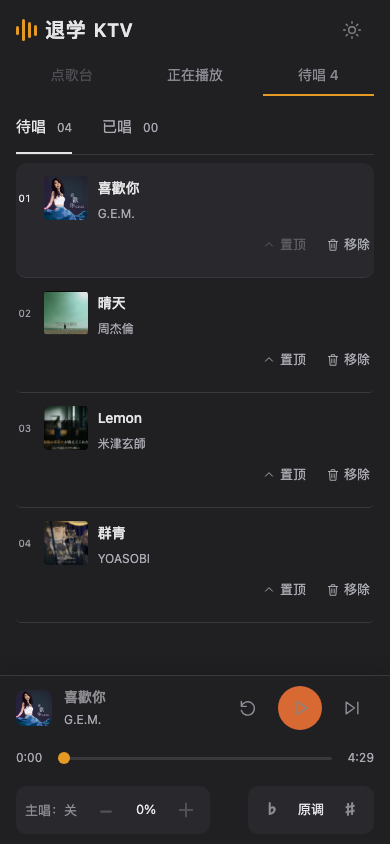
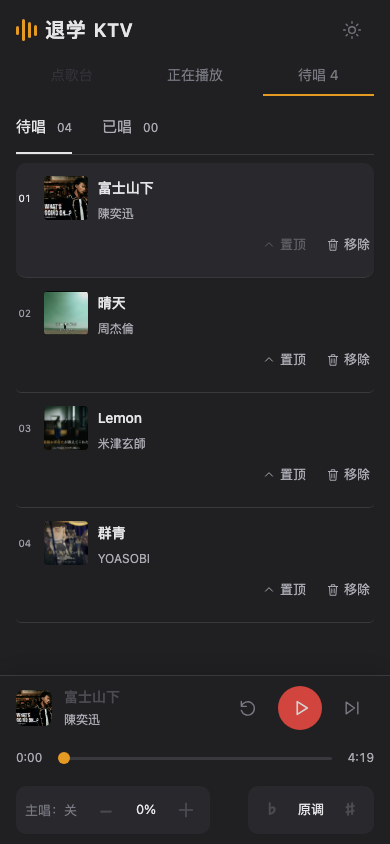
Document source licensing and refresh Cantonese screenshots

diff --git a/THIRD_PARTY.md b/THIRD_PARTY.md
@@ -1,6 +1,6 @@
 # 第三方来源与许可
 
-项目自身许可证尚未选定。以下是第三方组件的来源和已核对的许可，不能把它们统一解释为本项目的授权。模型、媒体和歌词各有独立的使用与分发条件。
+项目自行编写的代码与文档采用 [MIT License](LICENSE)。下列第三方代码、配置、数据与另行安装的组件保留其原有许可，不因出现在本项目中而改为 MIT。模型、媒体和歌词各有独立的使用与分发条件。
 
 ## 随仓库分发的代码和配置
 
@@ -11,17 +11,49 @@
 | `karaoke/models/pretrained/vocals_mel_band_roformer*.yaml` | [KimberleyJSN / Mel-Band RoFormer](https://huggingface.co/KimberleyJSN/melbandroformer) | 上游模型卡声明 MIT。保留上游配置及本项目的推理配置；权重哈希见 [separation.json](karaoke/dependencies/separation.json)。 |
 | `karaoke/models/pretrained/karaoke_bs_roformer_anvuew.yaml` | [Anvuew 的固定版本](https://huggingface.co/anvuew/karaoke_bs_roformer/tree/0d4423d42e12cf2ba39ae09171028507b8a2a7be) | 该版本模型卡声明 `gpl-3.0`，保留 [GPL v3 全文](licenses/GPL-3.0.txt)。此声明不能被项目自身的许可证覆盖。 |
 
-## 另行安装的源码与模型
+## 另行安装的 Python 组件与数据
+
+下表补充需要特别区分许可范围的直接依赖；它们由 `requirements*.txt` 安装，包本身不随源码仓库分发。声明依赖不等于已经分发该包，但直接导入及组合发布时仍须遵守适用条款。
+
+| 组件 | 固定版本、用途与许可 |
+| --- | --- |
+| [cmudict](https://pypi.org/project/cmudict/1.1.3/) | **1.1.3，GPL-3.0-or-later**；`gaussian_align.py` 中的研究工具直接导入。包内 CMU 发音字典有单独的 BSD 类许可，不能用字典的数据许可替代 Python 包的许可。 |
+| [phonemizer](https://github.com/bootphon/phonemizer/tree/v3.3.0) | **3.3.0，GPL-3.0-or-later**；英文歌声音素对齐使用其 eSpeak 接口。[上游许可](https://github.com/bootphon/phonemizer/blob/v3.3.0/LICENSE)。 |
+| [pykakasi](https://pypi.org/project/pykakasi/2.3.0/) | **2.3.0，GPL-3.0-or-later**；日文发音处理直接导入。 |
+| [espeakng-loader](https://pypi.org/project/espeakng-loader/0.2.4/) / [eSpeak NG](https://github.com/espeak-ng/espeak-ng) | **loader 0.2.4**；loader 当前上游声明 MIT，所加载的 eSpeak NG 为 GPLv3 系列许可。该版本本机 wheel 含原生库及数据，但缺少可核验的随包许可/源码版本说明；打包前须补齐实际二进制来源、对应源码与通知，不能将整个 wheel 标为 MIT。 |
+| [uroman](https://pypi.org/project/uroman/1.3.1.1/) | **1.3.1.1，MIT 类许可附额外项目署名要求**；用于多语言声学复核的转写。该版本包分类写 Apache，但实际附带许可如下，不依据分类替换条款。 |
+| [PyCantonese](https://github.com/jacksonllee/pycantonese) | **5.0.0，Python 代码 MIT**；粤拼函数使用 HKCanCor 与 rime-cantonese 数据，二者为 CC-BY-4.0。包内另有 CantoMap（GPLv3）、Common Voice（MPL-2.0）、CTCPC（CC0）数据；制作整包时须保留各数据子目录的许可，不能只保留代码的 MIT。 |
+| [pyopenjtalk](https://github.com/r9y9/pyopenjtalk) | **0.4.1，Python 封装 MIT**；本项目使用文本前端。包内 Mei voice 另按 CC-BY-3.0，不能将声音资源重新许可为 MIT。 |
+
+GPL 允许商业使用；它要求按适用条件提供受覆盖作品的源码、通知和许可。分发直接导入 GPL 库的程序组合时，应按 GPL 兼容方式处理，不能只附本项目的 MIT 就宣称覆盖所有组件。独立作品的集合也不会仅因放在同一目录而全部变为 GPL。参见 [GNU FAQ](https://www.gnu.org/licenses/gpl-faq.en.html#IfInterpreterIsGPL) 和 [GPL v3 全文](licenses/GPL-3.0.txt)。
+
+### uroman 署名
+
+This project uses the universal romanizer software 'uroman' written by Ulf Hermjakob, USC Information Sciences Institute (2015-2020).
+
+Ulf Hermjakob, Jonathan May, and Kevin Knight. 2018. *Out-of-the-box universal romanization tool uroman*. Proceedings of the 56th Annual Meeting of the Association for Computational Linguistics, Demo Track.
+
+固定版本随包的[完整许可](licenses/uroman-LICENSE.txt)保留其原始版权年份与附加署名条款；本项目的 MIT 不移除这些要求。
+
+### 粤拼数据署名
+
+- **HKCanCor**：K. K. Luke and May L. Y. Wong (2015). *The Hong Kong Cantonese Corpus: Design and Uses*. Journal of Chinese Linguistics Monograph Series, 25, 312–333。[数据来源](https://github.com/fcbond/hkcancor)，经 PyCantonese 使用，许可为 [CC-BY-4.0](https://creativecommons.org/licenses/by/4.0/)。PyCantonese 调整了上游数据格式，本项目未再修改随包数据。
+- **rime-cantonese**：rime-cantonese contributors 的[粤语拼音词库](https://github.com/rime/rime-cantonese/tree/33f7d81bc7ef5eb2f69538a2d3d5fc109529e2dd)与 [CanCLID 上游数据](https://github.com/CanCLID/rime-cantonese-upstream/tree/bea0d7a366627506eb214d82b80780b5db4b05a1)，经 PyCantonese 转为运行时词典，许可为 [CC-BY-4.0](https://creativecommons.org/licenses/by/4.0/)。项目查询词典生成读音注释，不修改随包词典；文档示例说明见 [截图素材](docs/images/README.md)。
+
+## 另行安装的对齐源码与模型
 
 - **audio-separator 0.44.5**：调用入口的[上游许可为 MIT](https://github.com/nomadkaraoke/python-audio-separator/blob/v0.44.5/LICENSE)；它使用的每个模型仍需单独核对。
 - **SOFA**：固定源码版本的[许可为 MIT](https://github.com/qiuqiao/SOFA/blob/9549c6a86d16019c817eefe4bb8183405da524cc/LICENSE)。这不自动覆盖来自其他作者的日文／英文模型、字典或训练数据。
 - **LyricsAlignment-Multilingual**：固定源码版本的[许可为 MIT](https://github.com/jhuang448/LyricsAlignment-Multilingual/blob/ca1a3923d6c8bf7d20eefa1080f3f104a6173d38/LICENSE)。来源与校验值见 [english-alignment.json](karaoke/dependencies/english-alignment.json)。
 - **MMS_FA**：可选的声学复核模型；[PyTorch 官方文档](https://docs.pytorch.org/audio/stable/generated/torchaudio.pipelines.MMS_FA.html)明确声明 **CC-BY-NC 4.0（非商业）**。它不是通用的商业使用授权；如需商业部署，应另行取得适用授权或替换该模型。
-- 其他 SOFA 权重、SenseVoice、Whisper、Qwen 等按 [SETUP](SETUP.md) 从原发布者取得；[依赖清单](karaoke/dependencies)记录版本和哈希。哈希只核对文件身份，不证明使用或再分发权限。
+- **SOFA Japanese `akm_ja_v001`**：[发布页](https://github.com/ariikamusic/SOFA_Models/releases/tag/akm_ja_v001)及所附 readme 未提供明确的权重许可。使用/分发权限需向该权重发布者确认，不能由 SOFA 主项目的 MIT 推定；其他作者的 SOFA 权重、字典和 G2P 资源也分别核实。
+- **SenseVoice Small**：官方源码为 MIT，官方权重适用独立的模型协议。[官方说明](https://github.com/QwenAudio/SenseVoice#license)澄清遵守协议时允许商业使用，仍需署名并保留模型名称。本项目使用的是 sherpa-onnx 发布的 int8 转换包，应保留并核对该包的实际许可；不能用 sherpa-onnx 的 Apache 许可替代模型条款。
+- **Qwen3 ForcedAligner 0.6B**：[固定版本模型卡](https://huggingface.co/Qwen/Qwen3-ForcedAligner-0.6B/blob/c7cbfc2048c462b0d63a45797104fc9db3ad62b7/README.md)声明 Apache-2.0；相关文件身份见依赖清单。
+- Whisper 等其余资源按 [SETUP](SETUP.md) 从原发布者取得；[依赖清单](karaoke/dependencies)记录版本和哈希。哈希只核对文件身份，不证明使用或再分发权限。
 - 早期对照模型的来源可能没有完整许可声明，因此不随仓库提供其权重或配置，也不作为默认安装依赖。
 
 Python 包由各 `requirements*.txt` 固定版本，Node.js、FFmpeg、LAME 和系统字体由部署者安装。这里没有对全部间接依赖或组合分发作兼容性结论；制作包含依赖／模型的容器、安装包或公开演示服务前，应核对所含组件的实际许可。
 
 ## 音乐和在线来源
 
-本仓库不授予任何歌曲、MV、封面或歌词的版权许可。请使用有权处理和展示的素材，并遵守实际来源的访问条件。不要将私人 cookies、API key、下载媒体、歌词库或第三方研究 checkout 加入源码发布包。
+软件许可不授予第三方歌曲、MV、封面或歌词的版权许可。README 截图包含第三方作品的画面和歌词节选，未取得另行书面授权，不属于项目的 MIT 授权内容；展示范围及出处见 [截图素材说明](docs/images/README.md)。说明来源不等于获得授权，也不保证适用合理使用。请使用有权处理和展示的素材，并遵守实际来源的访问条件；能从网页或接口取得内容不代表获得再分发权，[YouTube 条款](https://www.youtube.com/static?template=terms)也单独约束访问和下载。不要将私人 cookies、API key、下载媒体、歌词库或第三方研究 checkout 加入源码发布包。

diff --git a/README.md b/README.md
@@ -1,16 +1,16 @@
 # 退学 KTV · Karaoke
 
-把 YouTube 视频变成可以唱的卡拉 OK：网页点歌、后台预处理、共享歌单和自动播放下一首。
+把有权下载和处理的 YouTube 视频变成可以唱的卡拉 OK：网页点歌、后台预处理、共享歌单和自动播放下一首。
 
 ## 界面预览
 
-以下为当前界面的实际截图，使用本地示例曲库和待唱队列；搜索结果来自 YouTube Music。歌曲与媒体文件不随仓库提供。
+以下为当前界面的实际截图，展示示例曲库、搜索和字幕播放。图中歌曲、封面、视频画面及歌词属于第三方，不包含在本项目的 MIT 授权中；素材出处与授权状态见[截图说明](docs/images/README.md)。截图用于说明功能，不代表逐字起音准确率已经通过人工验收。
 
 ### 全屏播放与字幕
 
-琥珀色逐字／词点亮，下一句提前显示；底部保留播放进度、主唱音量和升降调。
+琥珀色逐字／词点亮，下一句提前显示。**粤语歌词带粤语拼音（粤拼），日文歌词的汉字带平假名注音**，读音显示在对应文字上方；底部保留播放进度、主唱音量和升降调。
 
-![全屏播放：当前歌词的琥珀色点亮、下一句预读与底部控制栏](docs/images/playback.png)
+![全屏播放：粤拼注音、琥珀色点亮、下一句预读与底部控制栏](docs/images/playback.png)
 
 ### 桌面点歌台
 
@@ -22,13 +22,13 @@
 
 搜索歌名，分别展示曲库里的歌与在线结果，保留不同歌手和版本。
 
-![综合搜索：Lemon 的本地匹配项与 YouTube Music 在线结果](docs/images/search-general.png)
+![综合搜索：Lemon 的曲库匹配项与在线搜索结果](docs/images/search-general.png)
 
 ### 歌手搜索
 
 搜索歌手后直接展开作品列表，可切换其他候选并逐首点歌。
 
-![歌手搜索：周杰倫的歌手信息、曲库匹配项与作品列表](docs/images/search-artist.png)
+![歌手搜索：陈奕迅的信息、曲库匹配项与作品列表](docs/images/search-artist.png)
 
 ### 正在播放
 
@@ -47,6 +47,7 @@
 - 按歌名查 YouTube Music 歌曲，或找歌手浏览热门歌曲；下拉自动加载更多，支持播放量排序、预览和直接点歌，也保留原始 YouTube 视频搜索和视频链接。后台准备与播放顺序分别维护。
 - 自动下载视频，分离背景音乐、伴唱、主唱，生成带字幕的 MV。
 - 多语言歌词对齐（中日英保留专用唱歌模型细化）；当前句＋下一句，琥珀色逐字／词点亮，硬切换句，片头歌曲信息和四秒开唱提示。
+- **粤语拼音与日文平假名**：粤语歌词显示粤拼，日文歌词的汉字显示平假名注音，在生成字幕时完成。
 - 暂停、定位、重唱、下一首、全屏；混音后实时升降调，主唱音量按百分比调节。
 - 伴奏和伴唱始终开启，主唱 0–100% 加减按钮支持全屏调整，每次 5 个百分点；各设备独立播放；默认 10 GiB 歌曲缓存上限与 LRU 自动回收。
 - SQLite 持久化，SSE 推送进度；同一局域网可以用手机点歌和播放。
@@ -95,11 +96,13 @@ karaoke/
   models/pretrained/*.yaml        分离模型配置（不含权重）
 ```
 
-详细入口见[源码导航](karaoke/README.md)。本仓库保存代码、测试、配置和说明，不包含歌曲、歌词库、音轨、MV、封面、任务数据库、实验产物、模型权重、大型第三方研究仓库或虚拟环境。研究工具需要自行准备相应数据。
+详细入口见[源码导航](karaoke/README.md)。仓库保存代码、测试、配置、文档与上述界面截图；运行所需的歌曲、歌词库、音轨、MV、任务数据库、实验产物、模型权重、大型第三方研究仓库和虚拟环境由使用者另行准备。
 
 ## 许可与部署边界
 
-项目自身许可证尚未选定。第三方代码、模型配置与权重的许可分别记录在 [THIRD_PARTY.md](THIRD_PARTY.md)；其中包含 GPL 配置和非商业模型，不能把整套运行环境视为统一的宽松许可。
+项目自行编写的代码与文档采用 [MIT License](LICENSE)。截图内的第三方素材，以及第三方代码、配置、数据和模型，保留各自权利与许可，见 [THIRD_PARTY.md](THIRD_PARTY.md)。其中包含 GPL 组件和可选的非商业模型；MIT 不替代这些条款，也不代表完整运行环境可以仅按 MIT 分发。
+
+软件许可不授予歌曲、录音、视频、封面或歌词的使用权。下载、处理及分享前，请确认相应内容权限并遵守来源平台条款；开源或非商业使用不自动免除这些要求。
 
 服务默认只监听本机，没有内置账号隔离。远程访问需由部署者保护整个站点及 API；媒体、SSE 和操作接口都在保护范围内。歌曲、歌词和个人凭据不应加入源码发布包。
 

diff --git a/docs/images/README.md b/docs/images/README.md
@@ -1,0 +1,28 @@
+# 界面截图与素材说明
+
+本目录保存当前应用的六张界面截图，用于说明点歌、搜索、待唱列表和字幕播放。截图在隔离的本地演示环境拍摄，曲库与队列为展示而选取，不是随仓库分发的歌曲库。
+
+## 字幕功能
+
+**粤语歌词带粤语拼音（粤拼），日文歌词的汉字带平假名注音**，显示在对应文字上方。读音在字幕视频准备阶段生成。全屏与正在播放截图展示陈奕迅《富士山下》的粤拼、当前句高亮和下一句预读；截图不构成逐字起音准确率的人工验收。
+
+## 素材来源
+
+| 展示内容 | 原始来源 |
+| --- | --- |
+| 陈奕迅《富士山下》画面、歌曲信息及歌词节选 | [Eason Chan / Universal Music Group 官方曲目](https://www.youtube.com/watch?v=7qeShSmmsNg)，[歌词来源 LINE MUSIC](https://music-tw.line.me/track/1051750005)，专辑 *What's Going On...?*。来源标注录音为 ℗ 2006 Cinepoly Records Co. Ltd.，作曲：泽日生；作词：林夕。该录音标注不代表包含封面或歌词的全部权利。 |
+| 米津玄师《Lemon》封面及歌曲信息 | [原视频](https://www.youtube.com/watch?v=SX_ViT4Ra7k) |
+| 周杰伦《晴天》封面及歌曲信息 | [原视频](https://www.youtube.com/watch?v=DYptgVvkVLQ) |
+| YOASOBI《群青》封面及歌曲信息 | [原视频](https://www.youtube.com/watch?v=Y4nEEZwckuU) |
+| 五月天《突然好想你》封面及歌曲信息 | [原视频](https://www.youtube.com/watch?v=oDqWPLRIMdY) |
+| 孙楠、韩红《美丽的神话》封面及歌曲信息 | [原视频](https://www.youtube.com/watch?v=n5sjpCQhTDk) |
+| 综合搜索、歌手搜索中的封面与曲目信息 | YouTube Music 返回的 “Lemon” 与 “陳奕迅” 搜索结果；结果可能随时间和地区变化。 |
+
+粤拼由当前字幕代码及 PyCantonese 生成，词典数据的署名与许可见 [THIRD_PARTY.md](../../THIRD_PARTY.md#粤拼数据署名)。
+
+## 权利范围
+
+- 本项目自行编写的界面代码与说明文字适用根目录 [MIT License](../../LICENSE)。截图里的第三方封面、艺人形象、视频画面及歌词保留原权利，不因被嵌入截图而采用 MIT。
+- 本项目未就上述第三方素材取得另行书面展示或再分发授权。保留截图是用于说明实际界面与字幕功能的展示选择，并非已经确认所有素材的使用权；署名、非商业用途或截图形式都不自动构成授权或合理使用。
+- 复用截图时需单独评估适用权利与当地法律；项目不能向下游提供这些素材的许可。需要完全由自有或明确授权素材组成的发布包时，应替换这些图片。
+- 原始音视频、完整歌词、临时数据库及个人曲库不随源码提供。更换当前图片不会移除 Git 历史中的旧图片。

diff --git a/CONTRIBUTING.md b/CONTRIBUTING.md
@@ -20,7 +20,7 @@ node --test karaoke/test_player.mjs karaoke/test_pitch.mjs karaoke/test_search.m
 
 ## 数据与凭据
 
-歌曲、歌词库、封面、模型权重、生成文件、数据库、cookies、API key、个人部署信息和运行报告留在仓库外或 Git 已忽略的数据目录。测试优先使用合成音频与自写短文本；确需第三方素材时先核对分发授权。不要用 `git add -f` 绕过排除规则。
+歌曲、歌词库、封面、模型权重、生成文件、数据库、cookies、API key、个人部署信息和运行报告留在仓库外或 Git 已忽略的数据目录。文档截图优先使用授权明确的素材，在 [素材说明](docs/images/README.md)记录来源、展示范围和授权状态，不将第三方内容当作项目的 MIT 内容。测试优先使用合成音频与自写短文本；确需第三方素材时先核对分发授权。不要用 `git add -f` 绕过排除规则。
 
 提交前检查 `git diff --cached --stat` 和 `git diff --cached`。发布前对整个 Git 历史做密钥扫描，例如安装 Gitleaks 后运行：
 
@@ -34,4 +34,4 @@ gitleaks git . --log-opts=--all --redact=100
 
 服务默认只监听本机，没有内置账号隔离；允许访问的用户可以操作共享歌单。远程访问应由部署者保护整个站点、API、媒体及 SSE，不能只保护首页。
 
-项目自身许可证尚未选定；发布前需由维护者明确授权范围。新增依赖、复制的代码和模型配置须保留出处及许可，见 [THIRD_PARTY.md](THIRD_PARTY.md)。
+项目自行编写的代码与文档采用 [MIT License](LICENSE)。提交贡献前请确认有权按项目许可提供该内容；第三方文件保留其原有许可。新增依赖、复制的代码和模型配置须保留出处及许可，见 [THIRD_PARTY.md](THIRD_PARTY.md)，不要将第三方 GPL 组件或受限模型重新标为 MIT。
